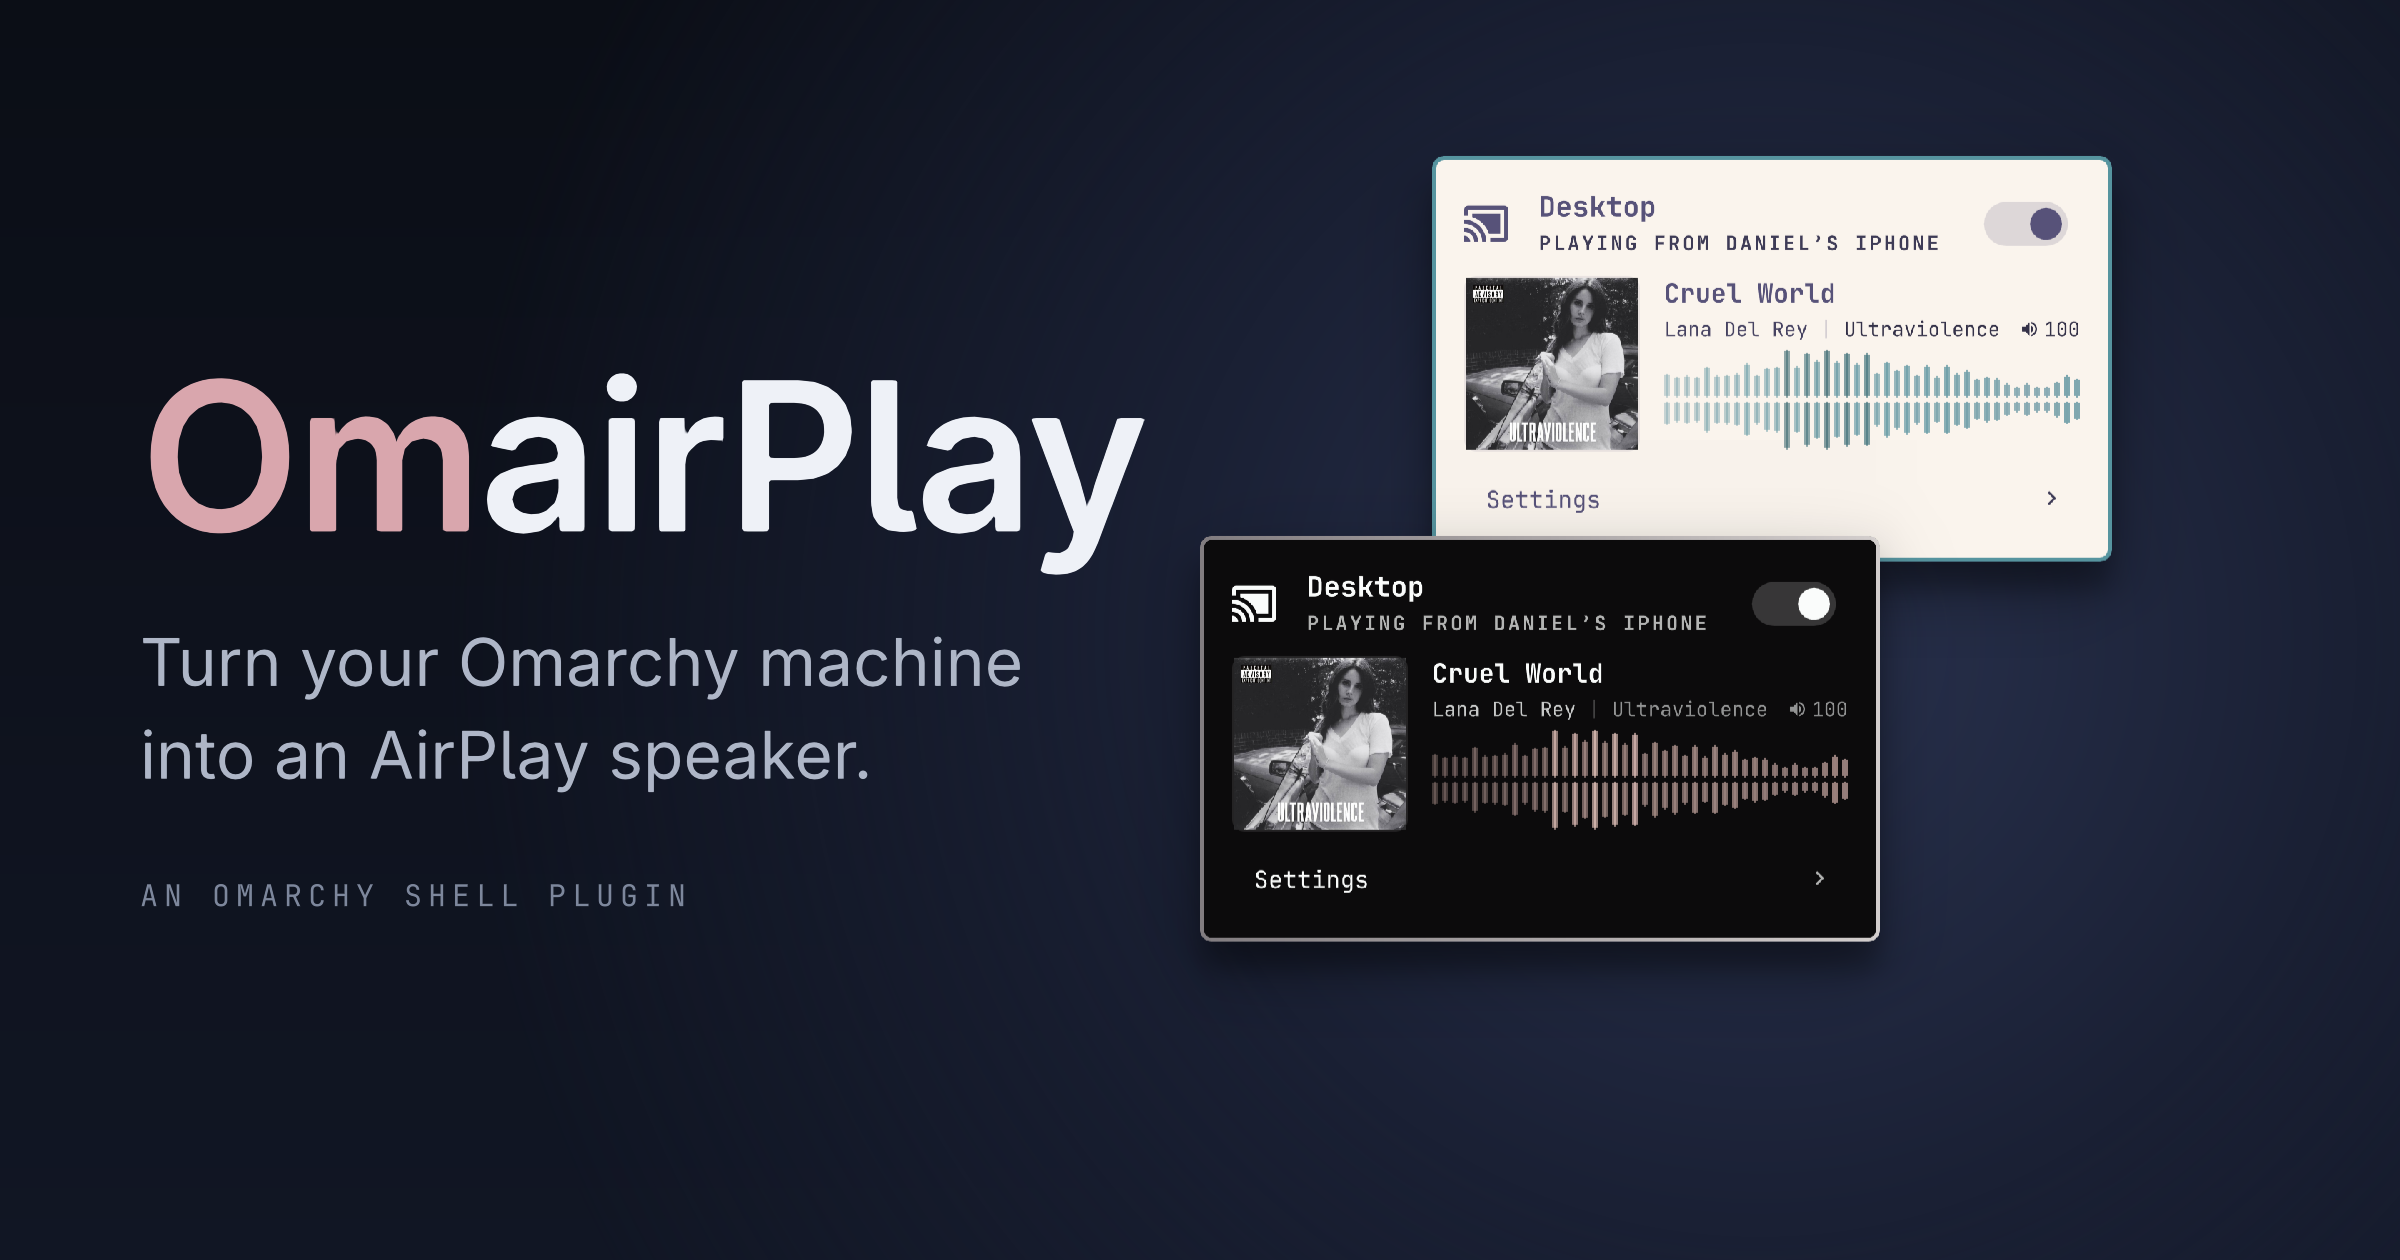
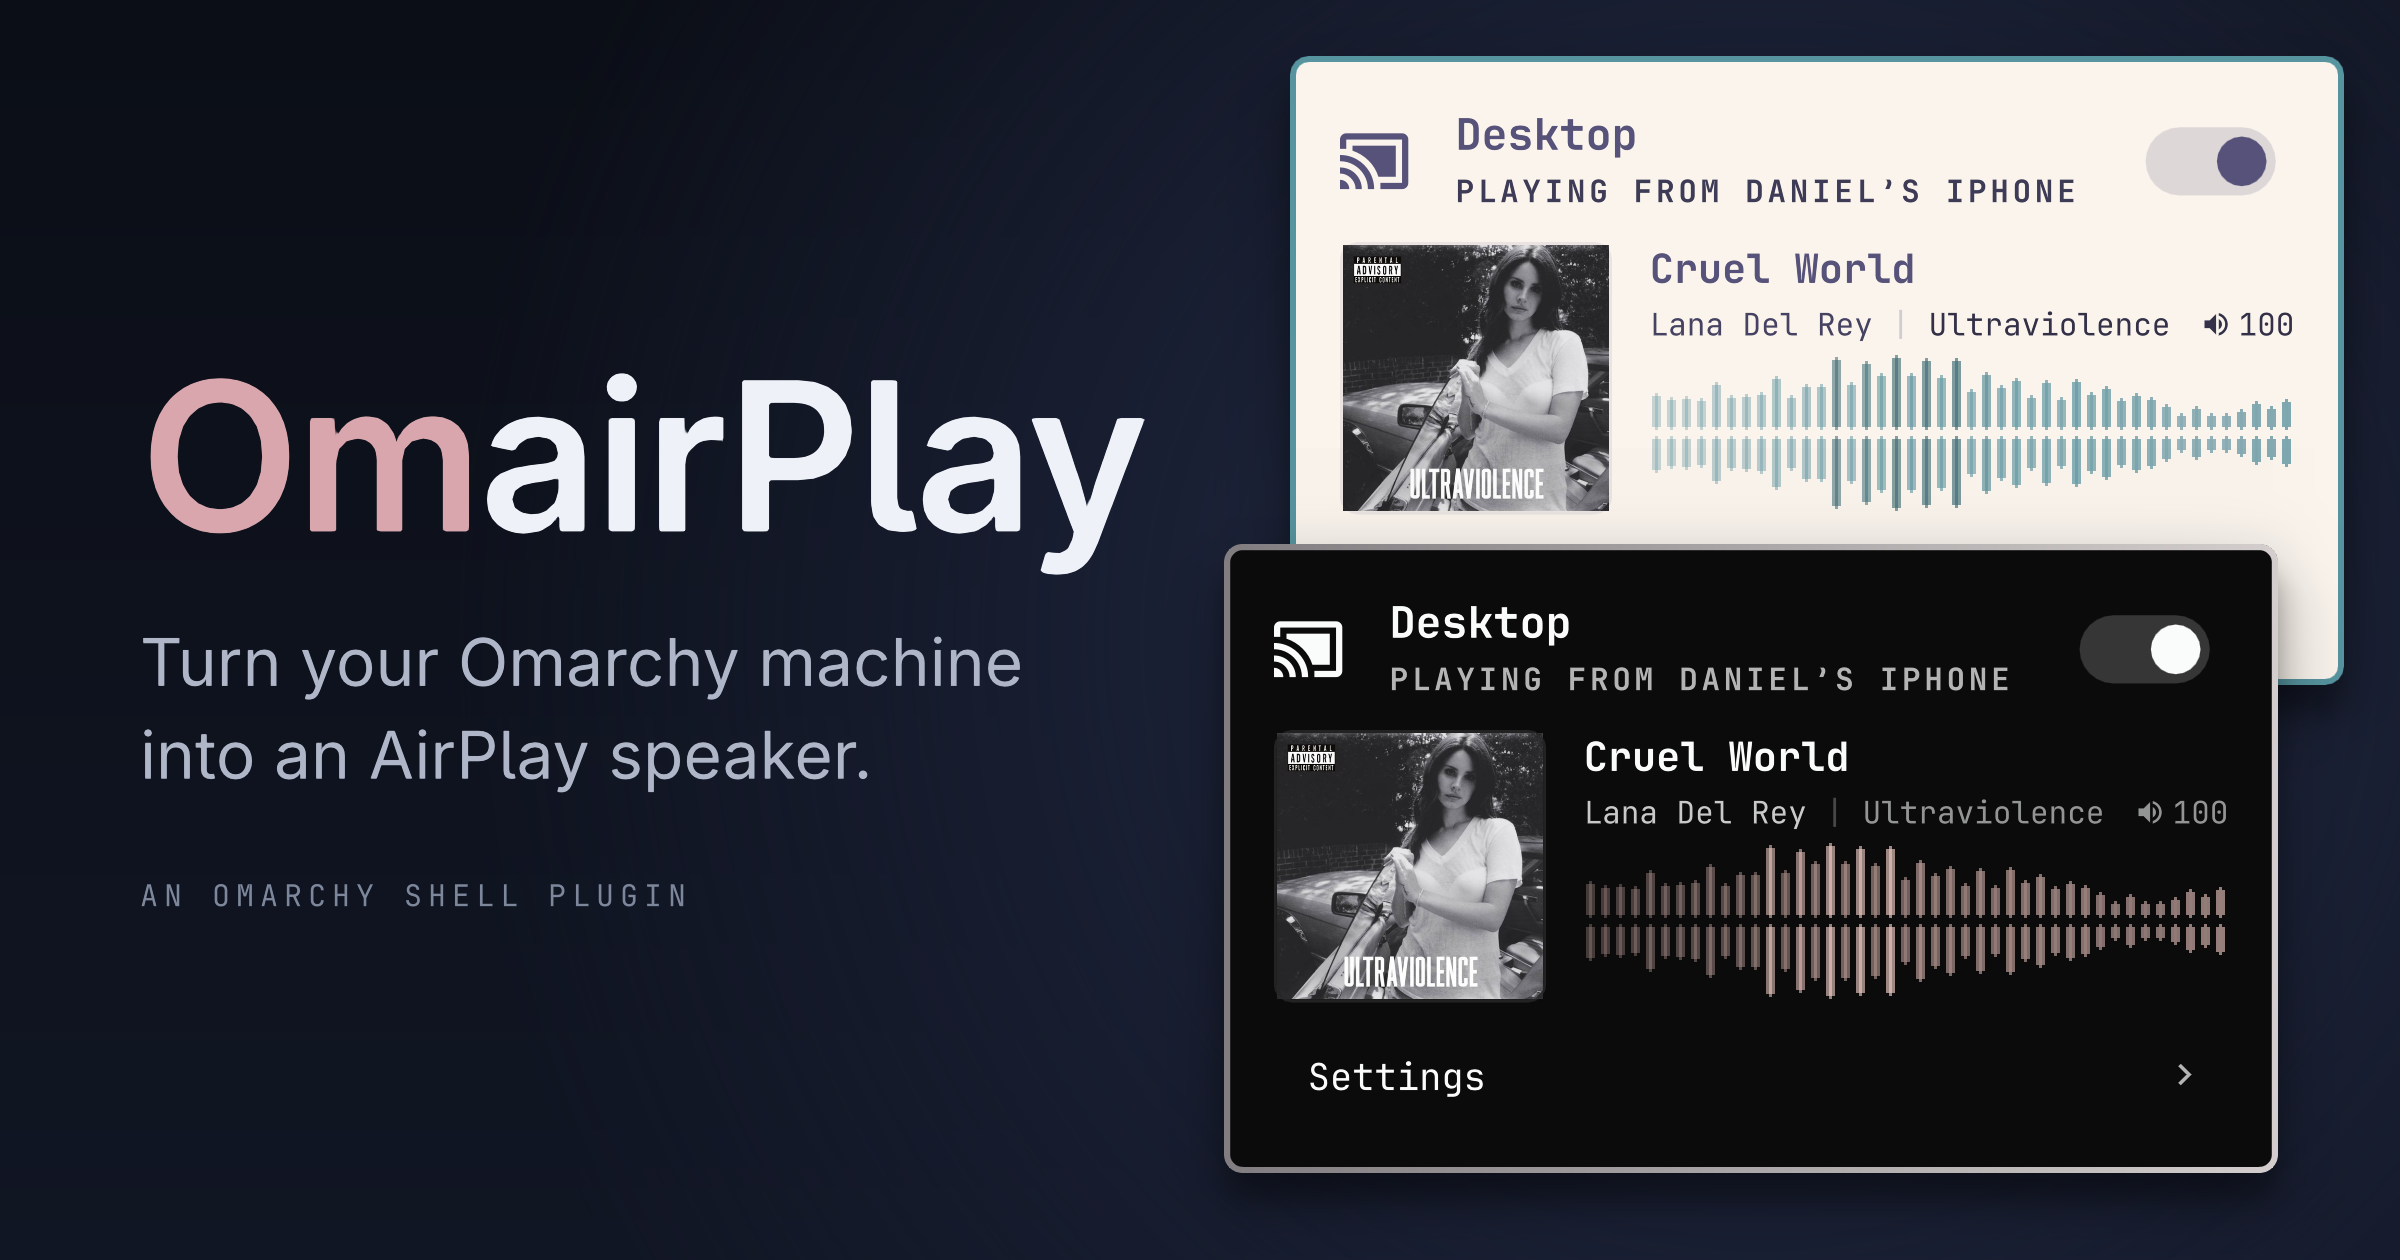
Enlarge the hero popups
The popups now fill the right half at about one and a half times their real
size, so the image still reads as a marketplace thumbnail.

Changed region(s): [[0.5, 0.031, 1.0, 0.9595]]

diff --git a/README.md b/README.md
@@ -1,6 +1,6 @@
 # OmairPlay
 
-![OmairPlay](preview.png?v=5)
+![OmairPlay](preview.png?v=6)
 
 Turn your Omarchy machine into an AirPlay speaker. Tap to cast from your phone's
 AirPlay list, and the audio plays on your speakers or headphones. It's lightning-fast:
